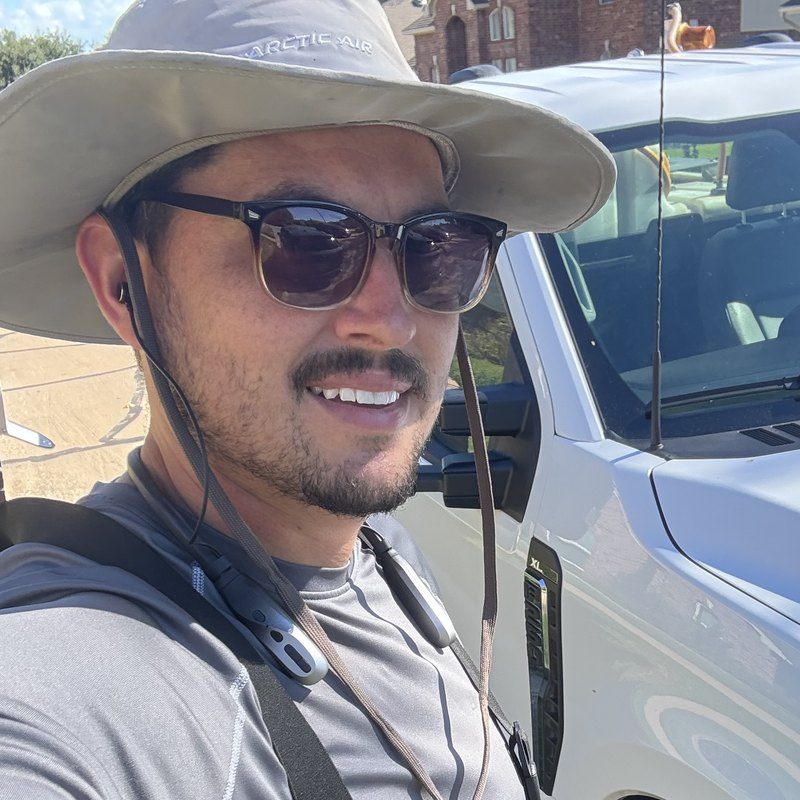
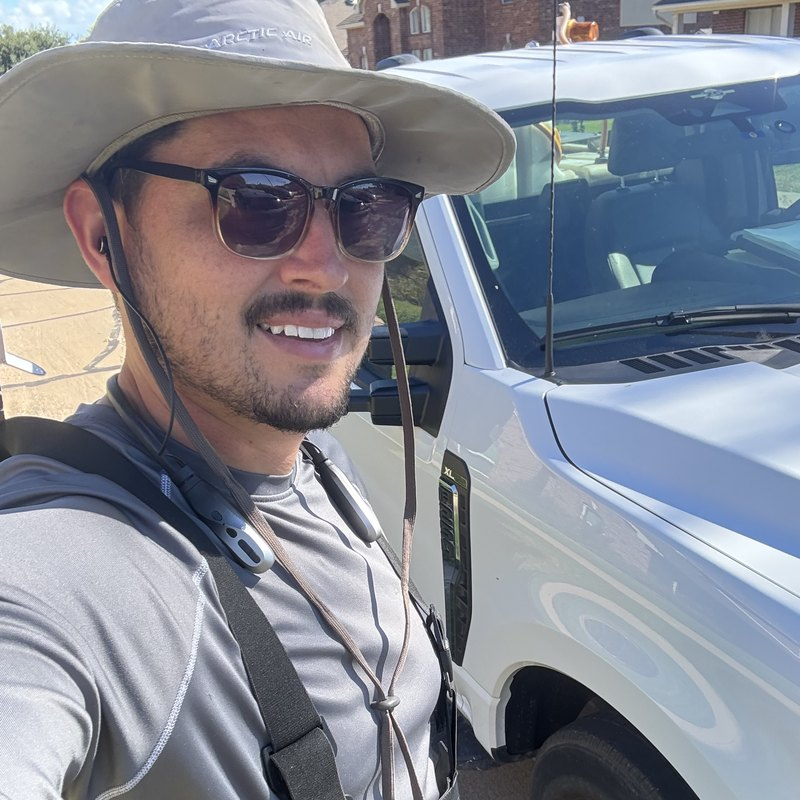
About page: zoom the profile photo out a little

diff --git a/about.html b/about.html
@@ -255,7 +255,7 @@
   <section class="v3">
     <div class="wrap">
       <aside class="v3-card">
-        <img class="photo" src="images/jeremy.jpg?v=2" width="800" height="800" alt="Jeremy Wise, owner of Good Soil">
+        <img class="photo" src="images/jeremy.jpg?v=3" width="800" height="800" alt="Jeremy Wise, owner of Good Soil">
         <p class="name">Jeremy Wise</p>
         <p class="role">Owner, Good Soil</p>
         <ul>
